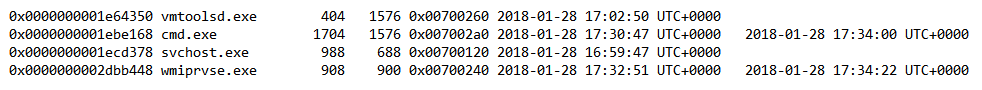
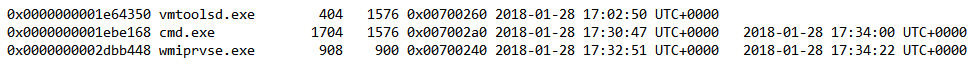
hidden writeup

diff --git a/SharifCTF 8/forensics/hidden/README.md b/SharifCTF 8/forensics/hidden/README.md
@@ -32,11 +32,11 @@ Now we should find a difference between two files. ```fc``` won't help there cau
 
 <p><img src='images/psscan.png' /></p>
 
-So, can you see the difference? Yes, these four processes:
+So, can you see the difference? Yes, these three processes:
 
 <p><img src='images/difference.png' /></p>
 
-As you see, half of them was closed, and we need to submit one PIDs. It's time to guess...
+As you see, two of them was closed, and we need to submit the last PID.
 
 ```
 C:\Users\Vova\Desktop\SharifCTF8> python
@@ -45,7 +45,5 @@ Type "help", "copyright", "credits" or "license" for more information.
 >>> from hashlib import md5
 >>> md5(b'404').hexdigest()
 '4f4adcbf8c6f66dcfc8a3282ac2bf10a'
->>> md5(b'688').hexdigest()
-'f79921bbae40a577928b76d2fc3edc2a'
 >>>
 ```
